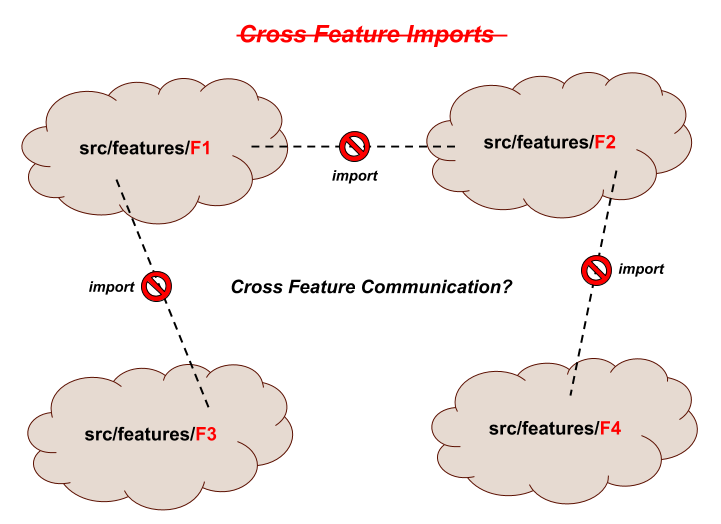
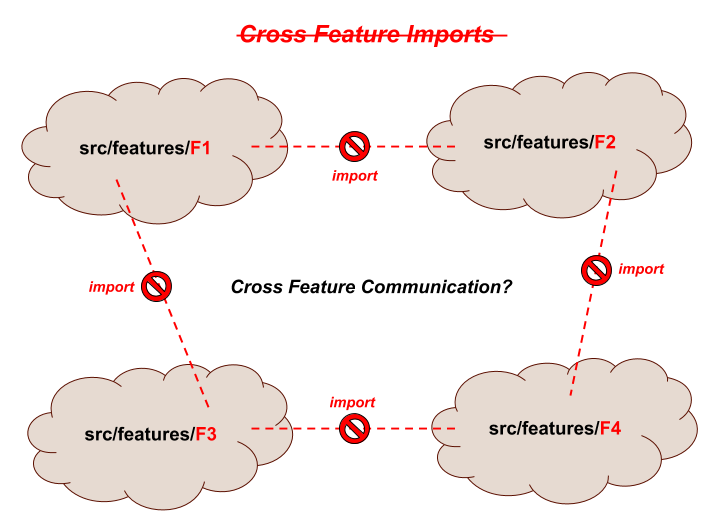
V1 Article Backup (so jeff can see)

diff --git a/docs/article/V1/articleV1.md b/docs/article/V1/articleV1.md
@@ -47,13 +47,22 @@ collaboration**!
 
 TK:medium-resolve-internal-links
 
-- [Feature Based Development] ... _? describe_
-- [Segregating Features] ... _? describe_
-- [Feature Goals] ... _? describe_
-  - [Feature Runtime Consolidation] ... _? describe_
-  - [Feature Collaboration] ... _? describe_
+- [Feature Based Development] ... _think of features as mini applications_
+- [Segregating Features] ... _divide your features into project directories_
+- [Feature Goals] ... _what are the goals of feature based development_
+- [Feature Runtime Consolidation] ... _how do multiple features run as one application?_
+  - [feature-u Runtime Consolidation]  ... _the **feature-u** solution for runtime consolidation_
+    - [launchApp()]
+    - [Feature Object]
+    - [aspects]
+    - [Running the App]
+- [Feature Collaboration] ... _how do features cross communicate without breaking encapsulation?_
+  - [feature-u Cross Communication]  ... _the **feature-u** solution for feature collaboration_
 
-<!--- ?? consider refactoring diagram to use 3 features patterned after concepts ---> 
+
+<!--- ? consider refactoring diagram to use 3 features patterned after concepts
+      ? I THINK WE CAN MOVE TO 3 clouds anytime we want
+ ---> 
 
 ## Feature Based Development
 
@@ -137,18 +146,42 @@ hurdles** that must be overcome to realize our goal ...
 - **In short**, how do we achieve a running application from these
   isolated features?
 
-Broadly speaking, there are two overriding characteristics that must
-be accomplished to achieve our goal _(along with several other
-byproducts)_:
+When you boil it all down, there are **two overriding
+characteristics** that must be accomplished to achieve our goals
+_(everything else are byproducts of these two artifacts)_:
 
 <!--- ? Other Words: Accumulate, Consolidate, Pull/Bring together, Unite, Combine, Amalgamate, Join, Fuse, Unify ---> 
 
-1. **Feature Runtime Consolidation**: pull together our features into one running application
+1. **[Feature Runtime Consolidation]**: _pulling our features back together into one running application_
 
-2. **Feature Collaboration**: provide a mechanism by which our features can interact with one another
+2. **[Feature Collaboration]**: _provide a mechanism by which our features can interact with one another_
 
 Let's take a closer look at each of these items.
 
+
+<!--- ? OLD WORDS
+
+**the Goal _(what now?)_ ...**
+
+<ul>
+
+The **overriding goal** of **feature-u** is two fold:
+
+1. Allow features to **Plug-and-Play!** This encompasses many things,
+   such as: encapsulation, cross communication, enablement,
+   initialization, etc., etc.  We will build on these concepts
+   throughout this article.
+
+2. **Automate the startup of your application!!** You have the
+   features.  Allow them to promote their characteristics, so a
+   central utility can **automatically configure the frameworks** used
+   in your app, thereby **launching your application!** This task
+   **must be accomplished in an extendable way**, _because not
+   everyone uses the same set of frameworks!_
+
+</ul>
+
+ ---> 
 
 
 ## Feature Runtime Consolidation
@@ -203,9 +236,108 @@ This concern can be further divided into two sub-concerns:
   ---> 
 
 
+
+
+## feature-u Runtime Consolidation
+
+What is **feature-u**'s solution for [Feature Runtime Consolidation]?
+... _glad you asked ... let's break it down ..._
+
+
+
+### launchApp()
+
+[`launchApp()`] is a crucial utility in **feature-u**.  It is the agent,
+working on your behalf, that pretty much **accomplishes all the
+goals** of **feature-u**!
+With this utility, **your mainline startup process is extremely
+simple** ... it merely invokes `launchApp()`, and you are done (**easy
+peasy**)!
+
+<p align="center"><img src="img/intro_launchApp.png" alt="launchApp()" width="50%"></p>
+
+The `launchApp()` function actually starts your application running,
+employing various hooks that drive BOTH **App Initialization** and
+**Framework Configuration**!
+
+**How does this work?** ... _glad you asked ... keep reading ... we
+are building our **feature-u** concepts incrementally!_
+
+
+### Feature Object
+
+To accomplish this, each feature promotes a [`Feature`] object (using
+[`createFeature()`]), that catalogs aspects of interest to
+**feature-u**.
+
+<p align="center"><img src="img/intro_Feature.png" alt="Feature Object" width="50%"></p>
+
+
+### aspects
+
+In **feature-u**, "aspect" _(little "a")_ is a generalized term used
+to refer to the various ingredients that (when combined) constitute
+your application.  Aspects can take on many different forms: **UI
+Components** &bull; **Routes** &bull; **State Management** _(actions,
+reducers, selectors)_ &bull; **Business Logic** &bull; **Startup
+Initialization Code** &bull; _etc. etc. etc._
+
+**Not all aspects are of interest to feature-u** ...  _only those that
+are needed to setup and launch the application_ ... all others are
+considered an internal implementation detail of the feature.  As an
+example, consider the redux state manager: while it uses actions,
+reducers, and selectors ... only reducers are needed to setup and
+configure redux.
+
+<p align="center"><img src="img/intro_AspectContent.png" alt="AspectContent" width="70%"></p>
+
+The [`Feature`] object is merely a lightweight container that holds
+aspects of interest to **feature-u**.  These aspects can either be
+**built-in** (from core **feature-u**), or **extensions**.
+
+
+### Running the App
+
+Let's see how [`launchApp()`] accomodates the two sub-goals of runing the app:
+
+- App Initialization
+
+  ?? refine words
+
+  becase launchApp() is in control of starting the app, it can introduce ??link application life cycle events
+
+  this allows each feature to spawn start-up initialization processes
+
+  there are two hooks ??
+
+  <p align="center"><img src="img/intro_AppInit.png" alt="App Initialization" width="80%"></p>
+
+- Framework Configuration
+
+  ??? CURRENT POINT ???
+
+  ?? refine words
+
+  how can this be accomplished when there are so many frameworks out there
+  ... and every project uses a different mix
+
+  feature-u is extendable via Aspect plugins
+
+                       ??? DIAGRAM: showing Aspects being pulled in
+                                    - emphasize this in the Feature.aspects that are promoted
+                                      ... an Aspect extends what can be collected in a Feature
+                                    - basically extended Feature.aspect
+
+
+
+
 ## Feature Collaboration
 
-<!--- ? pretty much taken directly from crossCommunication.md inro PLUS new diagram ---> 
+The second overriding goal (mentioned above) was **Feature
+Collaboration** - _providing a mechanism by which our features can
+interact with one another_.
+
+<!--- ? pretty much taken directly from crossCommunication.md intro PLUS new diagram ---> 
 
 A **best practice** of feature-based development _(to the extent
 possible)_ is to **treat each feature as an isolated implementation**.
@@ -231,51 +363,21 @@ it's aspects to other features.  For example, a feature may need to:
 These items form the basis of why **Cross Feature Communication** is
 needed.
 
+<p align="center"><img src="img/featureCollaboration.png" alt="Feature Collaboration" width="60%"></p>
+
 To complicate matters, as a general rule, **JS imports should NOT
 cross feature boundaries**.  The reason being that this
-cross-communication should be limited to public access points -
+cross-communication should be **limited to public access points** -
 helping to **facilitate true plug-and-play**.
 
 <p align="center"><img src="img/featureCollaborationNoImport.png" alt="Cross Feature Imports are BAD" width="60%"></p>
 
-
 Given all this then, **how is Cross Feature Communication achieved**
 _in a way that doesn't break encapsulation_?
-
-<p align="center"><img src="img/featureCollaboration.png" alt="Feature Collaboration" width="60%"></p>
 
 Features need a way to promote their **Public Interface** to other
 features, and consume other feature's **Public Assets**.
 
-## The feature-u Solution
-
-
-??? CURRENT POINT ???
-
-
-<!--- ?? OLD WORDS
-
-**the Goal _(what now?)_ ...** ?? OLD WORDS
-
-<ul>
-
-The **overriding goal** of **feature-u** is two fold:
-
-1. Allow features to **Plug-and-Play!** This encompasses many things,
-   such as: encapsulation, cross communication, enablement,
-   initialization, etc., etc.  We will build on these concepts
-   throughout this article.
-
-2. **Automate the startup of your application!!** You have the
-   features.  Allow them to promote their characteristics, so a
-   central utility can **automatically configure the frameworks** used
-   in your app, thereby **launching your application!** This task
-   **must be accomplished in an extendable way**, _because not
-   everyone uses the same set of frameworks!_
-
-</ul>
-
- ---> 
 
 
 <!--- ?? POINTS COVERED IN PRESENTATION: ... may be part of our goal buildup
@@ -309,6 +411,16 @@ How feature-u assists in:
   boilerplate code
 
  ---> 
+
+
+
+
+## feature-u Cross Communication
+
+What is **feature-u**'s solution for [Feature Collaboration]?
+... _glad you asked ... let's break it down ..._ ?? too much repreated phrase
+
+???
 
 
 
@@ -372,13 +484,21 @@ How feature-u assists in:
 
 <!--- ?? internal references ---> 
 
-[Feature Based Development]:      #feature-based-development
-[Segregating Features]:           #segregating-features
-[Feature Goals]:                  #feature-goals
-[Feature Runtime Consolidation]:  #feature-runtime-consolidation
-[Feature Collaboration]:          #feature-collaboration
+[Feature Based Development]:           #feature-based-development
+[Segregating Features]:                #segregating-features
+[Feature Goals]:                       #feature-goals
+[Feature Runtime Consolidation]:       #feature-runtime-consolidation
+  [feature-u Runtime Consolidation]:   #feature-u-runtime-consolidation
 
-[References]:                     #references
+  [launchApp()]:                       #launchapp
+  [Feature Object]:                    #feature-object
+  [aspects]:                           #aspects
+  [Running the App]:                   #running-the-app
+
+[Feature Collaboration]:               #feature-collaboration
+  [feature-u Cross Communication]:     #feature-u-cross-communication
+                                       
+[References]:                          #references
 
 
 
